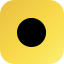
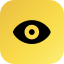
Center overlay content and grow bar to full screen height.
Align eye icon and count vertically and horizontally in the yellow bar, use linear height scaling to 100vh at daily max, and regenerate eye icons.

Changed region(s): [[0.1875, 0.375, 0.6875, 0.75], [0.375, 0.375, 0.625, 0.625], [0.3125, 0.2812, 0.8125, 0.625]]

diff --git a/content/shared/overlay.js b/content/shared/overlay.js
@@ -7,18 +7,38 @@ const DumbscrollBrand = {
 
 const DumbscrollOverlay = (() => {
   let el = null;
+  let contentEl = null;
   let valueEl = null;
   let storageListenerAttached = false;
-  const MAX_COVER_RATIO = 2 / 3;
+  const MIN_HEIGHT_PX = 1;
   const ICON_SVG = `
     <svg viewBox="0 0 24 24" width="1em" height="1em" aria-hidden="true" focusable="false">
-      <path fill="currentColor" d="M12 3.5a.75.75 0 0 1 .75.75v9.19l2.72-2.72a.75.75 0 1 1 1.06 1.06l-4 4a.75.75 0 0 1-1.06 0l-4-4a.75.75 0 1 1 1.06-1.06l2.72 2.72V4.25A.75.75 0 0 1 12 3.5Zm-8 14.25a.75.75 0 0 1 .75-.75h14.5a.75.75 0 0 1 0 1.5H4.75a.75.75 0 0 1-.75-.75Z"/>
+      <path fill="currentColor" d="M12 5.25C7.17 5.25 3.047 8.882 1.5 12c1.547 3.118 5.67 6.75 10.5 6.75s8.953-3.632 10.5-6.75C20.953 8.882 16.83 5.25 12 5.25Zm0 11.25a4.5 4.5 0 1 1 0-9 4.5 4.5 0 0 1 0 9Zm0-2.25a2.25 2.25 0 1 0 0-4.5 2.25 2.25 0 0 0 0 4.5Z"/>
     </svg>
   `;
 
-  function fontSize(count, max) {
-    const progress = Math.min(count / max, 1);
-    return 14 + progress * 34;
+  function progressFor(count, max) {
+    if (max <= 0) {
+      return 0;
+    }
+
+    return Math.min(Math.max(count / max, 0), 1);
+  }
+
+  function heightFor(count, max) {
+    const progress = progressFor(count, max);
+    const viewportHeight = window.innerHeight;
+
+    if (count <= 0) {
+      return MIN_HEIGHT_PX;
+    }
+
+    return Math.max(MIN_HEIGHT_PX, progress * viewportHeight);
+  }
+
+  function fontSizeFor(progress, viewportHeight) {
+    const scaled = 14 + progress * Math.min(viewportHeight * 0.18, 160);
+    return Math.max(14, scaled);
   }
 
   function ensure() {
@@ -31,6 +51,9 @@ const DumbscrollOverlay = (() => {
     el.setAttribute("aria-live", "polite");
     el.setAttribute("aria-label", "Today's combined dumbscroll count");
 
+    contentEl = document.createElement("div");
+    contentEl.className = "dumbscroll-counter-content";
+
     const icon = document.createElement("span");
     icon.className = "dumbscroll-counter-icon";
     icon.innerHTML = ICON_SVG;
@@ -38,51 +61,26 @@ const DumbscrollOverlay = (() => {
     valueEl = document.createElement("span");
     valueEl.className = "dumbscroll-counter-value";
 
-    el.append(icon, valueEl);
+    contentEl.append(icon, valueEl);
+    el.append(contentEl);
     document.documentElement.appendChild(el);
     return el;
   }
 
   function applyLayout(count, max) {
     const overlay = ensure();
-    const progress = Math.min(count / max, 1);
+    const progress = progressFor(count, max);
+    const viewportHeight = window.innerHeight;
+    const heightPx = heightFor(count, max);
     const atMax = count >= max;
 
     valueEl.textContent = String(count);
     overlay.dataset.max = String(max);
+    overlay.dataset.progress = String(progress);
+    overlay.style.height = `${heightPx}px`;
+    overlay.style.fontSize = `${fontSizeFor(progress, viewportHeight)}px`;
     overlay.classList.toggle("at-max", atMax);
-    overlay.classList.toggle("growing", !atMax && progress >= 0.6);
-
-    if (atMax) {
-      overlay.style.fontSize = `${Math.min(window.innerHeight * 0.22, 220)}px`;
-      overlay.style.width = "100%";
-      overlay.style.height = `${MAX_COVER_RATIO * 100}vh`;
-      overlay.style.top = "0";
-      overlay.style.left = "0";
-      overlay.style.transform = "none";
-      overlay.style.borderRadius = "0";
-      return;
-    }
-
-    overlay.style.top = "12px";
-    overlay.style.left = "50%";
-    overlay.style.transform = "translateX(-50%)";
-    overlay.style.borderRadius = progress >= 0.6 ? "18px" : "999px";
-    overlay.style.fontSize = `${fontSize(count, max)}px`;
-
-    if (progress >= 0.6) {
-      const minHeight = 44;
-      const targetHeight = window.innerHeight * MAX_COVER_RATIO;
-      const growProgress = (progress - 0.6) / 0.4;
-      const height = minHeight + growProgress * (targetHeight - minHeight);
-      const width = 132 + growProgress * (window.innerWidth - 132);
-
-      overlay.style.height = `${height}px`;
-      overlay.style.width = `${Math.min(width, window.innerWidth)}px`;
-    } else {
-      overlay.style.height = "";
-      overlay.style.width = "";
-    }
+    overlay.classList.toggle("has-content", heightPx >= 56);
   }
 
   async function refresh() {
@@ -126,7 +124,7 @@ const DumbscrollOverlay = (() => {
     refresh();
   }
 
-  return { refresh, init, fontSize, brand: DumbscrollBrand };
+  return { refresh, init, brand: DumbscrollBrand };
 })();
 
 const DoomscrollOverlay = DumbscrollOverlay;

diff --git a/styles/overlay.css b/styles/overlay.css
@@ -5,47 +5,52 @@
   --dumbscroll-ink: #111111;
 
   position: fixed;
-  top: 12px;
-  left: 50%;
-  transform: translateX(-50%);
+  top: 0;
+  left: 0;
+  width: 100%;
   z-index: 2147483646;
   pointer-events: none;
   user-select: none;
+  overflow: hidden;
 
-  display: inline-flex;
+  display: flex;
+  align-items: center;
+  justify-content: center;
+
+  background: linear-gradient(
+    180deg,
+    var(--dumbscroll-yellow-light) 0%,
+    var(--dumbscroll-yellow-mid) 42%,
+    var(--dumbscroll-yellow-deep) 100%
+  );
+  box-shadow: 0 8px 24px rgba(17, 17, 17, 0.14);
+  transition: height 0.28s ease, box-shadow 0.28s ease;
+}
+
+#dumbscroll-counter-overlay .dumbscroll-counter-content {
+  display: flex;
   align-items: center;
   justify-content: center;
   gap: 0.35em;
+  opacity: 0;
+  transition: opacity 0.2s ease;
 
   font-family: "SF Pro Rounded", "Avenir Next Rounded", ui-rounded, "Segoe UI", sans-serif;
   font-weight: 800;
   line-height: 1;
   color: var(--dumbscroll-ink);
+  text-align: center;
+}
 
-  padding: 0.45em 0.8em;
-  border-radius: 999px;
-  background: linear-gradient(
-    145deg,
-    var(--dumbscroll-yellow-deep) 0%,
-    var(--dumbscroll-yellow-mid) 52%,
-    var(--dumbscroll-yellow-light) 100%
-  );
-  box-shadow:
-    0 10px 28px rgba(17, 17, 17, 0.18),
-    inset 0 1px 0 rgba(255, 255, 255, 0.35);
-  transition:
-    font-size 0.25s ease,
-    width 0.25s ease,
-    height 0.25s ease,
-    border-radius 0.25s ease,
-    box-shadow 0.25s ease;
+#dumbscroll-counter-overlay.has-content .dumbscroll-counter-content {
+  opacity: 1;
 }
 
 #dumbscroll-counter-overlay .dumbscroll-counter-icon {
   display: inline-flex;
   align-items: center;
   justify-content: center;
-  font-size: 0.72em;
+  font-size: 0.9em;
   color: var(--dumbscroll-ink);
 }
 
@@ -53,29 +58,15 @@
   font-variant-numeric: tabular-nums;
 }
 
-#dumbscroll-counter-overlay.growing {
-  box-shadow:
-    0 16px 40px rgba(17, 17, 17, 0.22),
-    inset 0 1px 0 rgba(255, 255, 255, 0.35);
+#dumbscroll-counter-overlay.at-max {
+  box-shadow: 0 16px 48px rgba(17, 17, 17, 0.22);
 }
 
-#dumbscroll-counter-overlay.at-max {
-  top: 0;
-  left: 0;
-  transform: none;
-  width: 100%;
-  height: 66.67vh;
-  padding: 0;
-  gap: 0.2em;
-  border-radius: 0;
+#dumbscroll-counter-overlay.at-max .dumbscroll-counter-content {
   flex-direction: column;
-  box-shadow: 0 18px 48px rgba(17, 17, 17, 0.24);
+  gap: 0.2em;
 }
 
 #dumbscroll-counter-overlay.at-max .dumbscroll-counter-icon {
-  font-size: 0.42em;
-}
-
-#dumbscroll-counter-overlay.at-max .dumbscroll-counter-value {
-  font-size: 1em;
+  font-size: 1.15em;
 }

diff --git a/scripts/generate_icons.swift b/scripts/generate_icons.swift
@@ -64,7 +64,7 @@ private func renderIcon(pixelSize: Int) -> NSImage {
         .applying(.init(paletteColors: [.black]))
 
     guard
-        let baseSymbol = NSImage(systemSymbolName: "arrow.down.circle.fill", accessibilityDescription: "Dumbscroll"),
+        let baseSymbol = NSImage(systemSymbolName: "eye.fill", accessibilityDescription: "Dumbscroll"),
         let symbol = baseSymbol.withSymbolConfiguration(symbolConfig)
     else {
         return image

diff --git a/popup/popup.html b/popup/popup.html
@@ -41,7 +41,7 @@
         <input id="daily-max" type="number" min="1" max="9999" step="1" />
         <span id="max-status" class="max-status" aria-live="polite"></span>
       </div>
-      <p class="settings-help">At this total, the counter covers the top two-thirds of the screen.</p>
+      <p class="settings-help">At this total, the yellow bar fills the full screen height.</p>
     </section>
 
     <script src="popup.js"></script>

diff --git a/README.md b/README.md
@@ -11,7 +11,7 @@ Inspired by the visual language of [Look Away](https://github.com/dvdcarlomagno/
 - **LinkedIn & X** — counts each post once when ≥25% is visible, or any part stays visible for 800ms
 - **YouTube** — counts each distinct video when playback starts
 - **Combined daily total** across all three platforms
-- **Growing yellow overlay** — master-yellow gradient, black scroll icon + count, scales toward 2/3 screen at your daily max
+- **Growing yellow bar** — starts as a 1px line at the top; height scales linearly with today's total vs your max (100% = full screen); black eye icon + count centered on the bar
 - **Popup** — per-platform breakdown, total vs max, editable daily limit (default 100)
 - **Local-only** — `chrome.storage.local`, resets at local midnight
 
